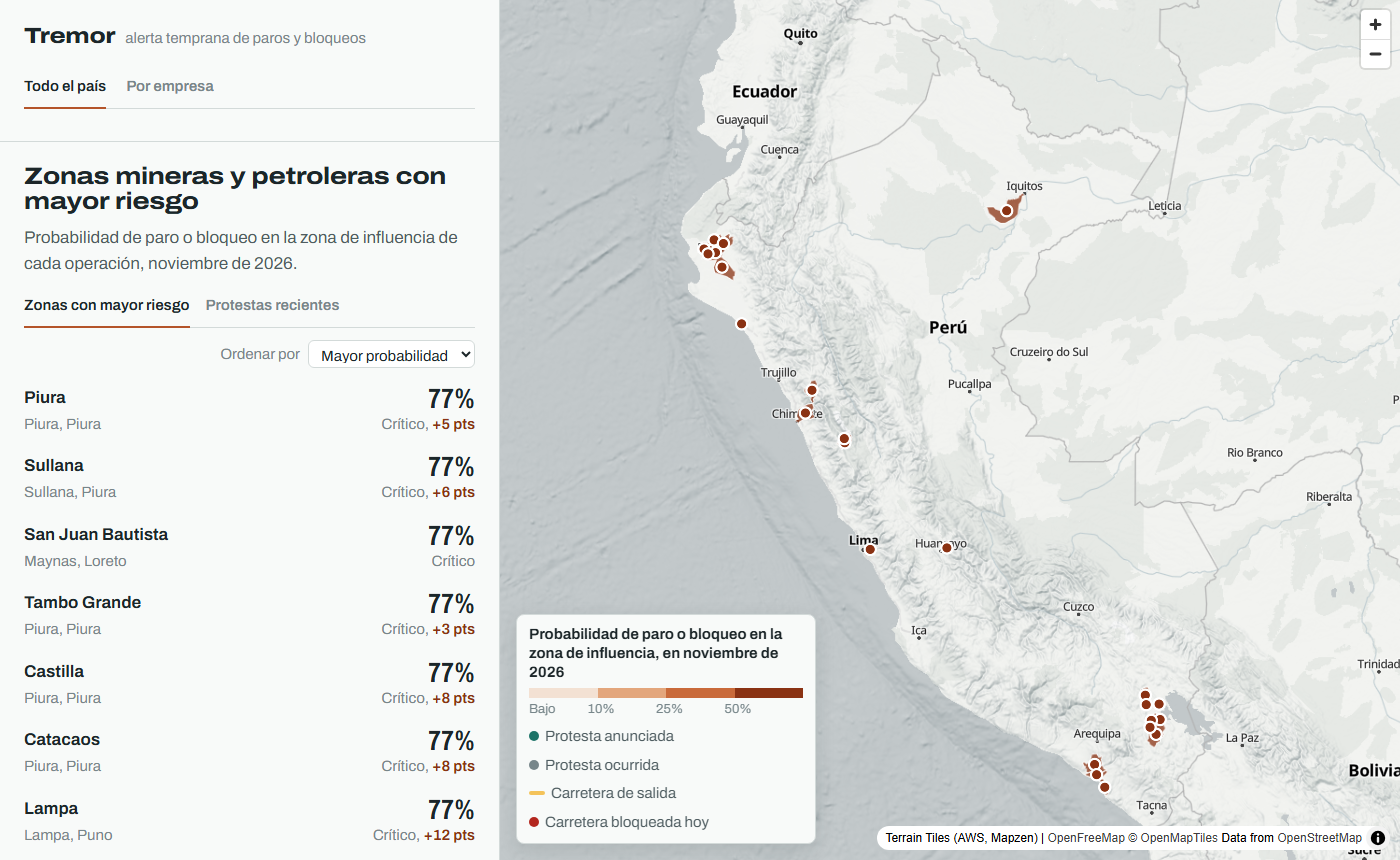
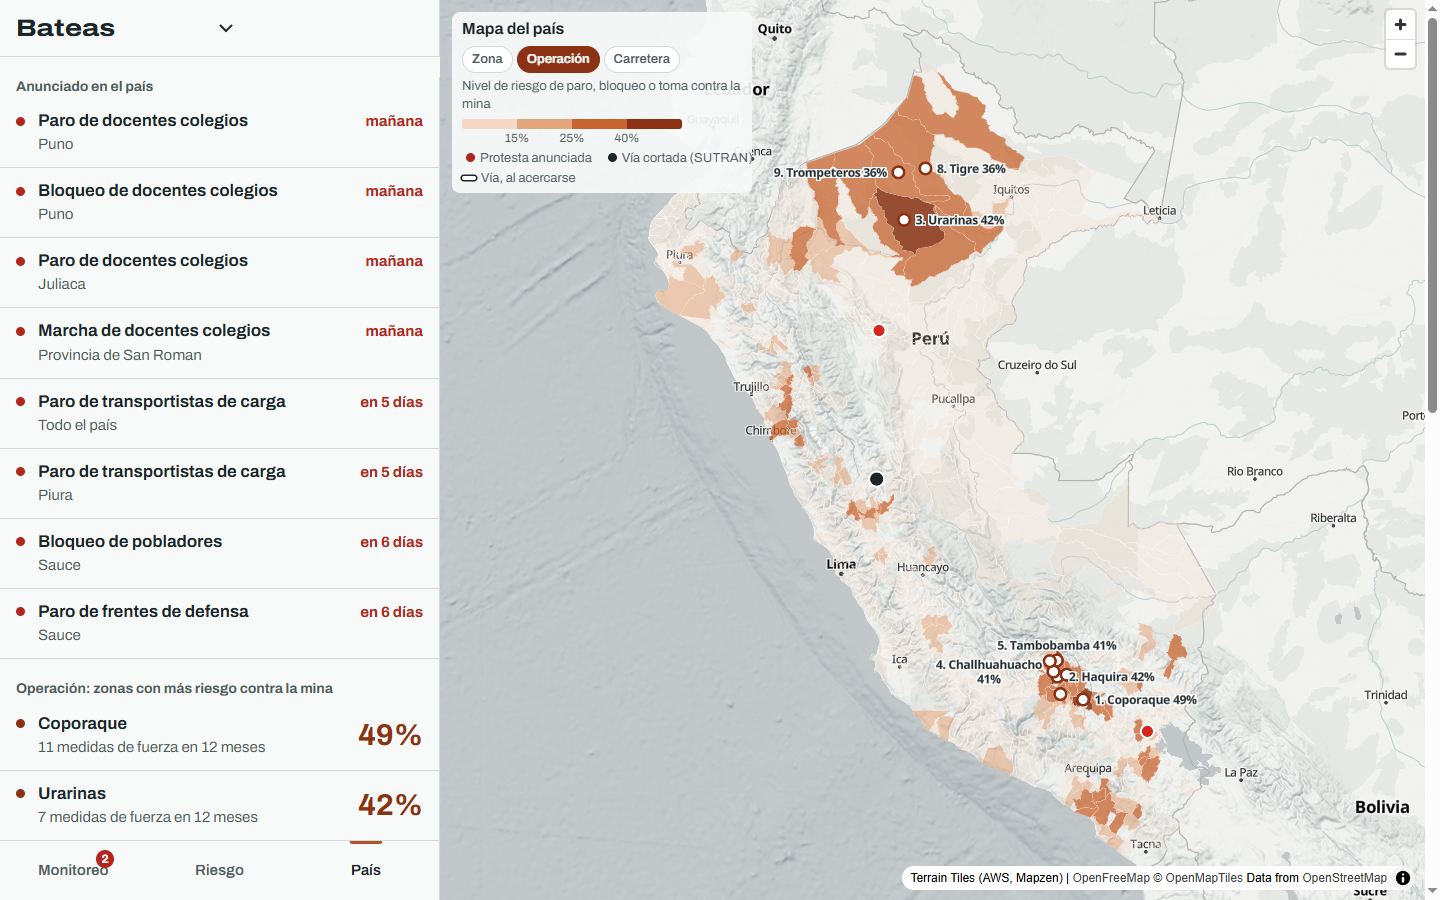
Página completa: WhatsApp, Reputación, costo por cliente, capturas nuevas y pruebas con usuarios (#83)
- landing y README: avisos por WhatsApp (hoy Telegram), 'Seguimiento' pasa a 'Reputación'
- README: costo por cliente con supuesto; capturas con Monitoreo, Riesgo y País
- docs/pruebas_usuarios.md: lo que dijo el analista de APOYO y qué cambió por cada comentario

diff --git a/docs/index.html b/docs/index.html
@@ -391,11 +391,11 @@
   <section id="servicios">
     <div class="ancho">
       <h2>Tres servicios en una sola plataforma</h2>
-      <p class="bajada">Avisos para actuar hoy, seguimiento para entender el clima social y niveles de riesgo para planificar el trimestre.</p>
+      <p class="bajada">Avisos para actuar hoy, reputación para entender el clima social y niveles de riesgo para planificar el trimestre.</p>
       <div class="servicios">
         <div class="servicio alertas">
           <h3>Alertas</h3>
-          <p>Convocatorias a paros, bloqueos y tomas, vías interrumpidas y medidas suspendidas, en el día y con la fuente original, por Telegram y en la plataforma.</p>
+          <p>Convocatorias a paros, bloqueos y tomas, vías interrumpidas y medidas suspendidas, en el día y con la fuente original, por WhatsApp y en la plataforma.</p>
           <div class="pila" aria-hidden="true">
             <div class="notif"><div class="de"><i></i>Tremor Avisos<span>28 oct</span></div><b>Paro anunciado en su zona de operación</b><p>Candarave, Tacna. Fuente: Radio Uno.</p></div>
             <div class="notif"><div class="de"><i></i>Tremor Avisos<span>21 oct</span></div><b>Vía interrumpida en su ruta</b><p>PE-3S, km 1148, Layo. Fuente: SUTRAN.</p></div>
@@ -403,7 +403,7 @@
           </div>
         </div>
         <div class="servicio seguimiento">
-          <h3>Seguimiento</h3>
+          <h3>Reputación</h3>
           <p>El ánimo hacia su proyecto en prensa y radio, incluidas radios en quechua y aimara, que se transcriben y traducen al castellano.</p>
           <div class="vivo"><div class="lenguas"><span class="on">Castellano</span><span>Quechua</span><span>Aimara</span></div>
             <div class="onda" aria-hidden="true"><i style="animation-delay: 0s"></i><i style="animation-delay: .1s"></i><i style="animation-delay: .2s"></i><i style="animation-delay: .3s"></i><i style="animation-delay: .4s"></i><i style="animation-delay: .5s"></i><i style="animation-delay: .6s"></i><i style="animation-delay: .7s"></i><i style="animation-delay: .8s"></i><i style="animation-delay: .9s"></i><i style="animation-delay: .25s"></i><i style="animation-delay: .45s"></i><i style="animation-delay: .65s"></i><i style="animation-delay: .85s"></i><i style="animation-delay: .15s"></i><i style="animation-delay: .35s"></i></div></div>
@@ -429,9 +429,9 @@
         <ol class="pasos">
           <li class="activo"><h3>Monitoreo</h3><p>Defensoría, vías interrumpidas de la SUTRAN, 407 medios de prensa nacional y regional y 286 radios locales en castellano, quechua y aimara.</p></li>
           <li><h3>Convocatorias <small>Alertas</small></h3><p>Un modelo de lenguaje codifica cada nota: acción, convocantes, adversario, lugar y fecha.</p></li>
-          <li><h3>Ánimo hacia el proyecto <small>Seguimiento</small></h3><p>Cuántas veces se menciona su proyecto frente a lo habitual y en qué tono.</p></li>
+          <li><h3>Reputación del proyecto <small>Reputación</small></h3><p>Cuántas veces se menciona su proyecto frente a lo habitual y en qué tono.</p></li>
           <li><h3>Nivel de riesgo a tres meses <small>Nivel de riesgo</small></h3><p>Un modelo entrenado con 20 años de conflictos da a cada zona con operación dos niveles: tensión social en la zona y medida de fuerza contra la mina.</p></li>
-          <li><h3>Aviso</h3><p>Por Telegram y en la plataforma, solo lo que afecta a sus operaciones o a su ruta, con la fuente original.</p></li>
+          <li><h3>Aviso</h3><p>Por WhatsApp y en la plataforma, solo lo que afecta a sus operaciones o a su ruta, con la fuente original.</p></li>
         </ol>
       </div>
       <div class="escenario">
@@ -576,7 +576,7 @@
       <div class="planes">
         <div class="plan"><h3>Piloto</h3><p class="para">Tres meses con su operación principal.</p>
           <p class="precio">US$4 500</p><p class="unidad">pago único por tres meses</p>
-          <ul><li>Una operación y su ruta de salida</li><li>Avisos por Telegram y acceso a la plataforma</li><li>Revisión de resultados al cierre</li></ul></div>
+          <ul><li>Una operación y su ruta de salida</li><li>Avisos por WhatsApp y acceso a la plataforma</li><li>Revisión de resultados al cierre</li></ul></div>
         <div class="plan dest"><h3>Operación</h3><p class="para">Para la mediana minería, que suele operar una o dos unidades.</p>
           <p class="precio">US$1 500</p><p class="unidad">mensual por operación</p>
           <ul><li>Alertas, seguimiento y predicción</li><li>Riesgo, mapa y ruta de salida</li><li>Informe mensual para la gerencia</li></ul></div>

diff --git a/docs/app.html b/docs/app.html
@@ -345,7 +345,7 @@ const VISTAS = {
     cabecera(false);
     const prox = u[0], an = (D.animo || []).find(a => EMPRESAS[empresa][1].test(a.proyecto || ""));
     const hoy = `<div class="hoy">${prox ? `<button type="button" data-aviso="${X.avisos.indexOf(prox)}"><b class="c1">${esc(prox.w)}</b><span>${esc(prox.t)}</span></button>` : `<div><b>–</b><span>Nada anunciado</span></div>`}
-      <div><b>${an ? Math.round(an.menciones_7d) : 0}</b><span>${an ? `Menciones en 7 días, ${pct(an.pct_negativo)} negativas` : "Sin menciones en los últimos 7 días"}</span></div></div>
+      <div><b>${an ? Math.round(an.menciones_7d) : 0}</b><span>${an ? `Reputación: menciones en 7 días, ${pct(an.pct_negativo)} negativas` : "Reputación: sin menciones en 7 días"}</span></div></div>
       <p class="hoy-pie">Lo de hoy en radios, medios, Defensoría y SUTRAN. No cambia el nivel de riesgo.</p>`;
     return hoy + (u.length ? `<h2>Atender</h2><ul>${u.map(x => filaAviso(x, X.avisos.indexOf(x))).join("")}</ul>` : `<h2>Atender</h2><p class="vacio">Nada anunciado en su zona ni en sus rutas.</p>`)
       + `<h2>Para seguir</h2>` + (r.length ? `<ul>${r.map(x => filaAviso(x, X.avisos.indexOf(x))).join("")}</ul>` : `<p class="vacio">Sin protestas ni notas sobre la empresa.</p>`)

diff --git a/README.md b/README.md
@@ -67,7 +67,7 @@ su riesgo y un informe mensual listo para enviar.
 - **Monitoreo en vivo.** La prensa regional, la SUTRAN y 286 radios locales de 139 provincias se leen cada día.
   Un LLM codifica cada nota con el manual de la base de protestas de la PUCP. Las protestas anunciadas aparecen
   como alerta antes de que ocurran.
-- **Avisos por Telegram.** Cada cliente recibe en su chat solo lo que toca a sus operaciones y su ruta: protestas
+- **Avisos por WhatsApp.** Cada cliente recibe en su chat solo lo que toca a sus operaciones y su ruta: protestas
   anunciadas, bloqueos de la SUTRAN y tramos lentos, con qué hacer. Si el paro se suspende o los gremios se retiran,
   también se avisa.
 - **Su ruta de salida.** Cada tramo de la mina al puerto, con el riesgo de los distritos que cruza y el tiempo de
@@ -145,7 +145,7 @@ flowchart LR
   MOD --> DB
   DB --> WEB[web.json]
   WEB --> PAG[GitHub Pages<br>inicio, app e informe]
-  DB --> TG[Bot de Telegram<br>avisos por cliente]
+  DB --> TG[Avisos por chat<br>WhatsApp; hoy Telegram]
   DB --> MCP[Servidor MCP]
 ```
 
@@ -210,6 +210,8 @@ transmite y luego pasar el audio a texto, que es lo que más cálculo consume. C
 radios son unas 840 horas de audio al día. En CPU eso ocupa decenas de máquinas. Una GPU lo transcribe varias decenas
 de veces más rápido, y por eso conviene pagarla cuando hay contrato.
 
+**Costo por cliente.** Con el supuesto de una operación que recibe unos 40 avisos al mes, 300 notas y 60 fragmentos de radio codificados para su zona y un informe mensual: unos US$25 al mes en tokens y US$30 de servidor y mensajería, cerca de **US$55 por cliente**, frente a los US$1 500 del plan; el resto del costo es fijo y se reparte.
+
 Cada plan cubre por sí solo el costo de operar. Un piloto o una operación pagan US$1 500 al mes, y el plan Empresa unos US$3 300. Desde ahí, cada cliente adicional es casi todo margen,
 porque su informe y sus alertas salen de los mismos datos. Mientras haya pocos clientes, la revisión de los avisos dudosos y del informe
 mensual la hace el fundador; un analista a medio tiempo (unos US$800 al mes) entra a partir del tercer cliente.
@@ -266,7 +268,7 @@ el ejecutor.
 - los lectores de la Defensoría, la prensa, la SUTRAN y la radio;
 - el modelo y su evaluación;
 - la página de inicio, la app, el informe y los vehículos 3D de la ruta;
-- el bot de avisos por Telegram;
+- el bot de avisos por chat (hoy Telegram; WhatsApp con el contrato);
 - los workflows;
 - las pruebas.
 

diff --git a/docs/pruebas_usuarios.md b/docs/pruebas_usuarios.md
@@ -1,0 +1,21 @@
+# Pruebas con usuarios
+
+Dos personas ajenas al desarrollo probaron la app publicada y la landing. Se nombran por su rol. Cada comentario va con
+lo que cambió por él.
+
+## 1. Analista sénior del Servicio de Asesoría Empresarial de APOYO Consultoría (10 de noviembre, videollamada)
+
+Probó la app de Bateas en computadora, con el mapa y la ruta, mientras conversábamos (notas en
+[`research/02-consultor-asesoria.md`](research/02-consultor-asesoria.md)).
+
+| Lo que dijo | Qué cambió |
+|---|---|
+| "Al principio entendí que las noticias alimentaban el modelo." No quedaba claro qué era monitoreo y qué era predicción. | La app separa las pestañas **Monitoreo** y **Riesgo**, y Monitoreo dice que lo de hoy no cambia el nivel de riesgo. |
+| Son tres riesgos distintos: la tensión social de la zona, un bloqueo contra la operación y los cortes de la carretera que no vienen de un conflicto. "Me gustaría ver estas capas por separado." | Tres indicadores con nombre propio en la app, la ficha de cada distrito y el mapa del país: **Zona**, **Operación** y **Carretera**, cada uno con su nivel y su porqué. La landing los explica con los mismos nombres. |
+| Un porcentaje a tres meses sobre una carretera conocida no aporta: "al ojo te digo que ahí puede haber protestas". | En la ruta manda el estado de hoy de cada tramo (SUTRAN, radios y medios); el porcentaje a tres meses pasó a dato secundario. |
+| Para los cortes que no son conflicto no hace falta un modelo: "hay cosas tan simples… que es solo consolidar lo que existe". | La capa **Carretera** muestra los cortes de la SUTRAN sin modelo y lo dice: "no es pronóstico". |
+| El monitoreo sirve también para la reputación, aunque no sea un conflicto, y las menciones podrían alimentar el modelo. | El índice de menciones y tono se llama **Reputación**, se guarda mes a mes para probarlo como variable cuando haya historia, y dispara un aviso cuando se sale de lo habitual. |
+
+## 2. Pendiente
+
+Segunda prueba por hacer, con una persona de relaciones comunitarias de una minera.
